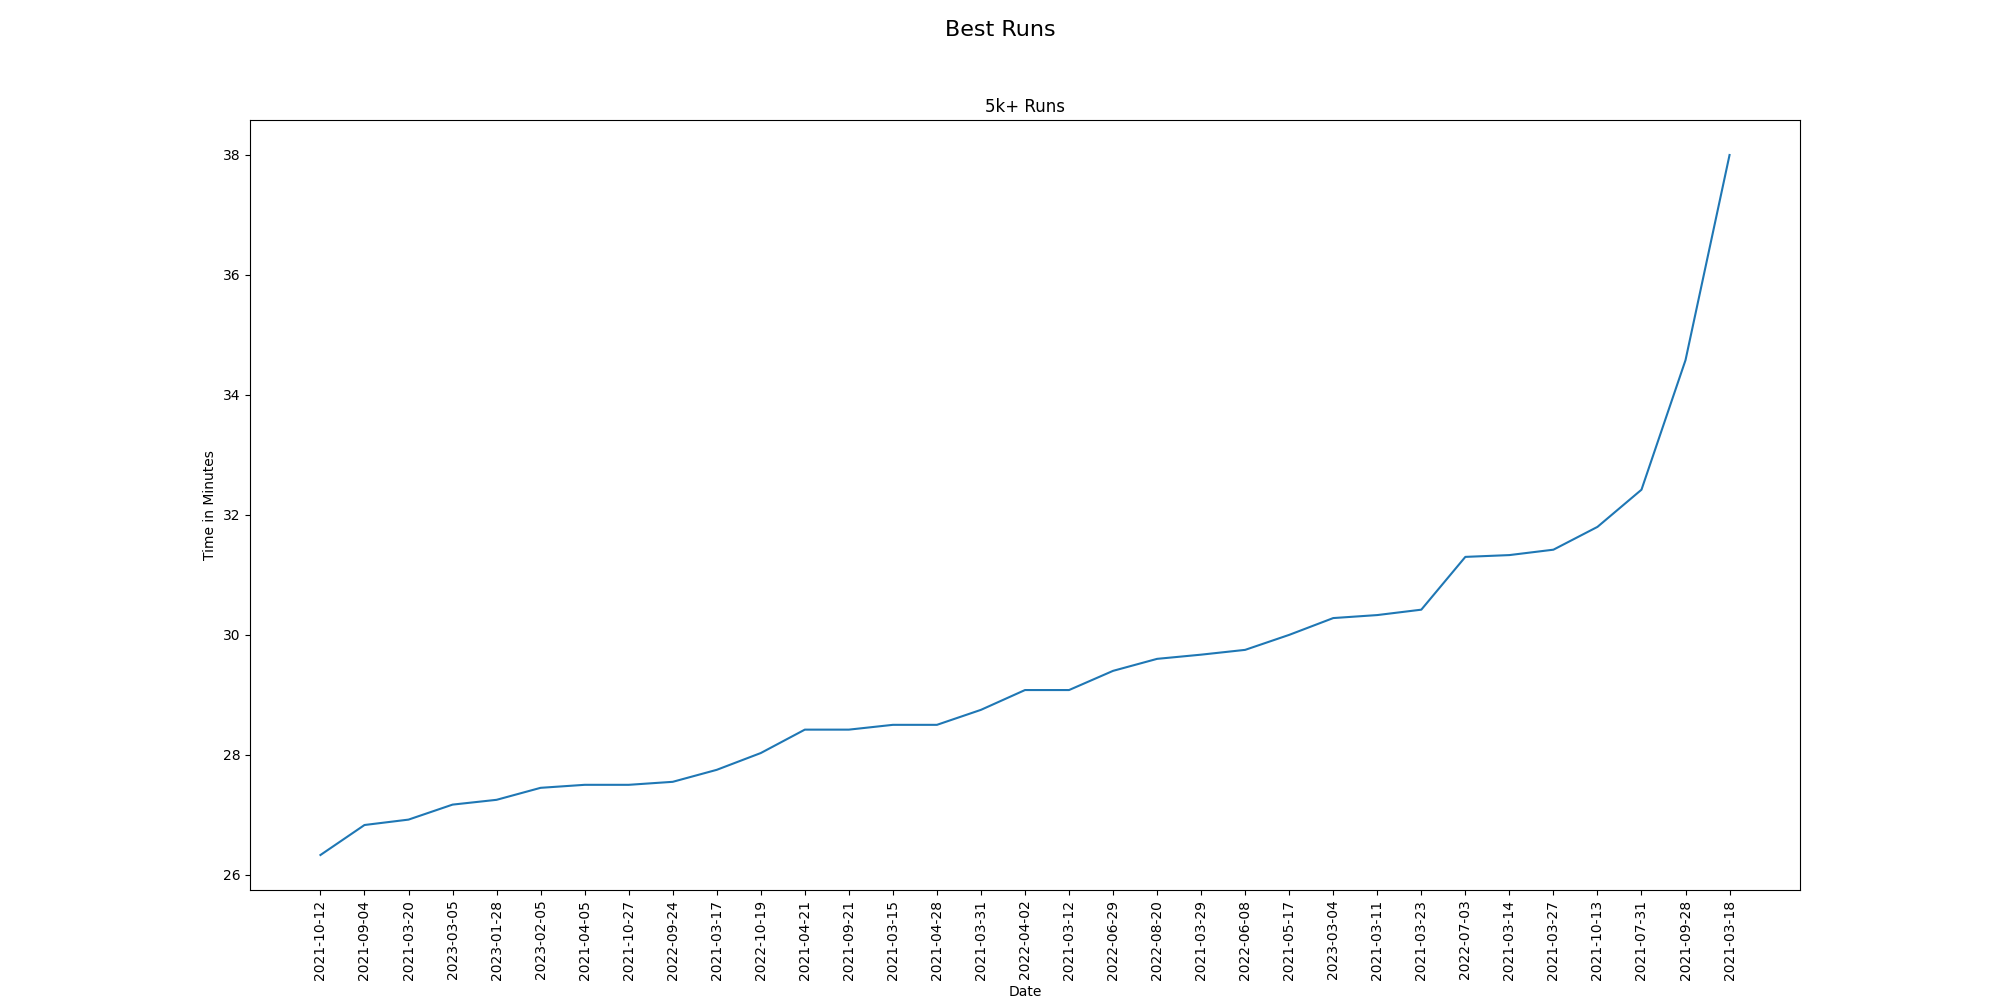
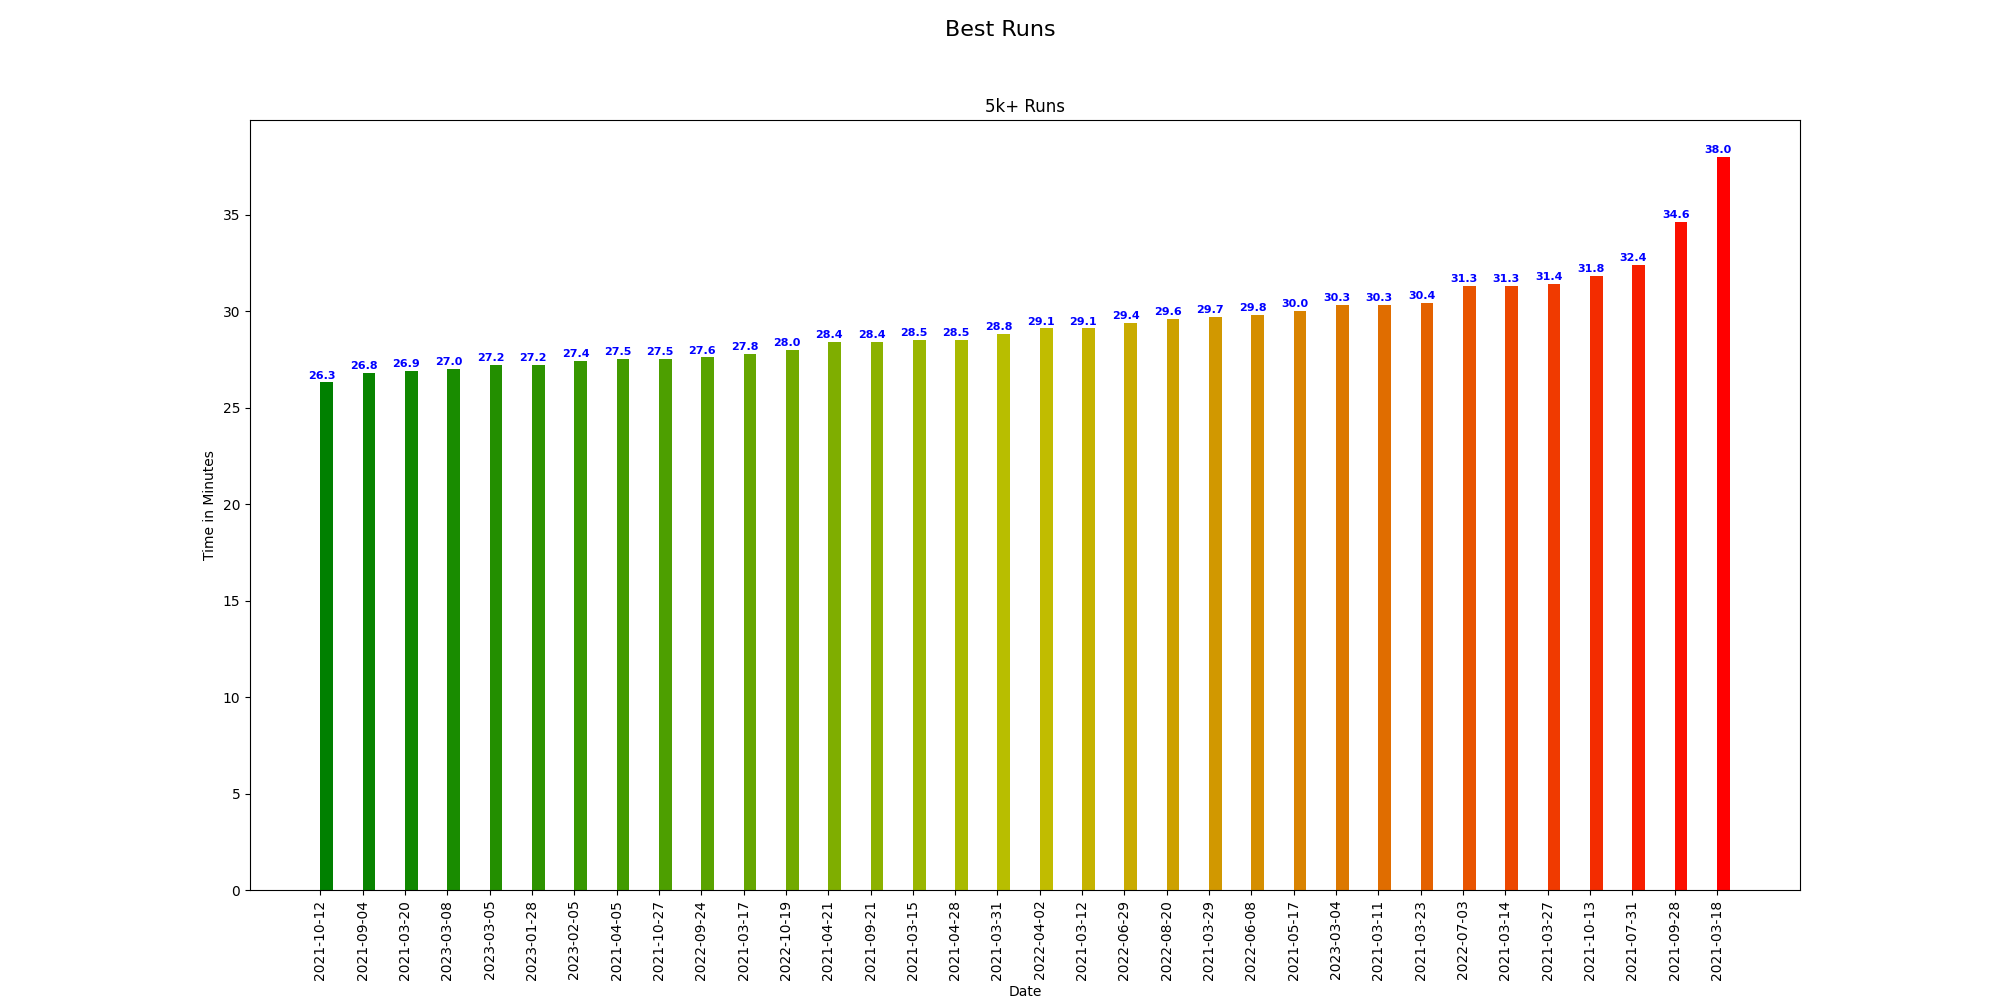
Best runs now bar chart. Added colors and labels. Updated requirements.txt

Changed region(s): [[0.155, 0.155, 0.868, 0.992]]

diff --git a/main.py b/main.py
@@ -4,6 +4,7 @@ import requests
 import time
 import matplotlib.pyplot as plt
 from matplotlib.gridspec import GridSpec
+from colour import Color
 
 with open("credentials/data.json", "r") as f:
     data = json.loads(f.read())
@@ -103,7 +104,7 @@ def get_activities():
     ]
     activities = activities.reset_index()
     activities["moving_time"] = activities["moving_time"] / 60
-    activities["moving_time"] = activities["moving_time"].apply(lambda x: round(x, 2))
+    activities["moving_time"] = activities["moving_time"].apply(lambda x: round(x, 1))
     activities = activities.round(2)
     return activities
 
@@ -116,12 +117,40 @@ def set_figure(title):
     return fig, gs
 
 
-def plot_figure(fig, gs, activities):
-    ax0 = fig.add_subplot(gs[0, 0])
-    ax0.plot(activities["start_date_local"], activities["moving_time"])
-    ax0.set_title("5k+ Runs")
-    ax0.set_xlabel("Date")
-    ax0.set_ylabel("Time in Minutes")
+def plot_figure_line(fig, gs, activities):
+    ax = fig.add_subplot(gs[0, 0])
+    ax.plot(activities["start_date_local"], activities["moving_time"])
+    ax.set_title("5k+ Runs")
+    ax.set_xlabel("Date")
+    ax.set_ylabel("Time in Minutes")
+
+
+def plot_figure_bar(fig, gs, activities):
+    red = Color("green")
+    colors = list(red.range_to(Color("red"), len(activities["moving_time"])))
+    colors = [color.rgb for color in colors]
+
+    ax = fig.add_subplot(gs[0, 0])
+    ax.bar(
+        activities["start_date_local"],
+        activities["moving_time"],
+        color=colors,
+        align="edge",
+        width=0.3,
+    )
+    ax.set_title("5k+ Runs")
+    ax.set_xlabel("Date")
+    ax.set_ylabel("Time in Minutes")
+
+    for index, value in enumerate(activities["moving_time"]):
+        ax.text(
+            index - 0.3,
+            value + 0.2,
+            str(value),
+            size=8,
+            color="blue",
+            fontweight="bold",
+        )
 
 
 def save_fig(fig, title):
@@ -133,7 +162,7 @@ def save_fig(fig, title):
 def recent_runs(activities):
     title = "Recent"
     fig, gs = set_figure(title)
-    plot_figure(fig, gs, activities)
+    plot_figure_line(fig, gs, activities)
     save_fig(fig, title)
 
 
@@ -141,7 +170,7 @@ def best_runs(activities):
     title = "Best"
     fig, gs = set_figure(title)
     activities = activities.sort_values("moving_time")
-    plot_figure(fig, gs, activities)
+    plot_figure_bar(fig, gs, activities)
     save_fig(fig, title)
 
 
